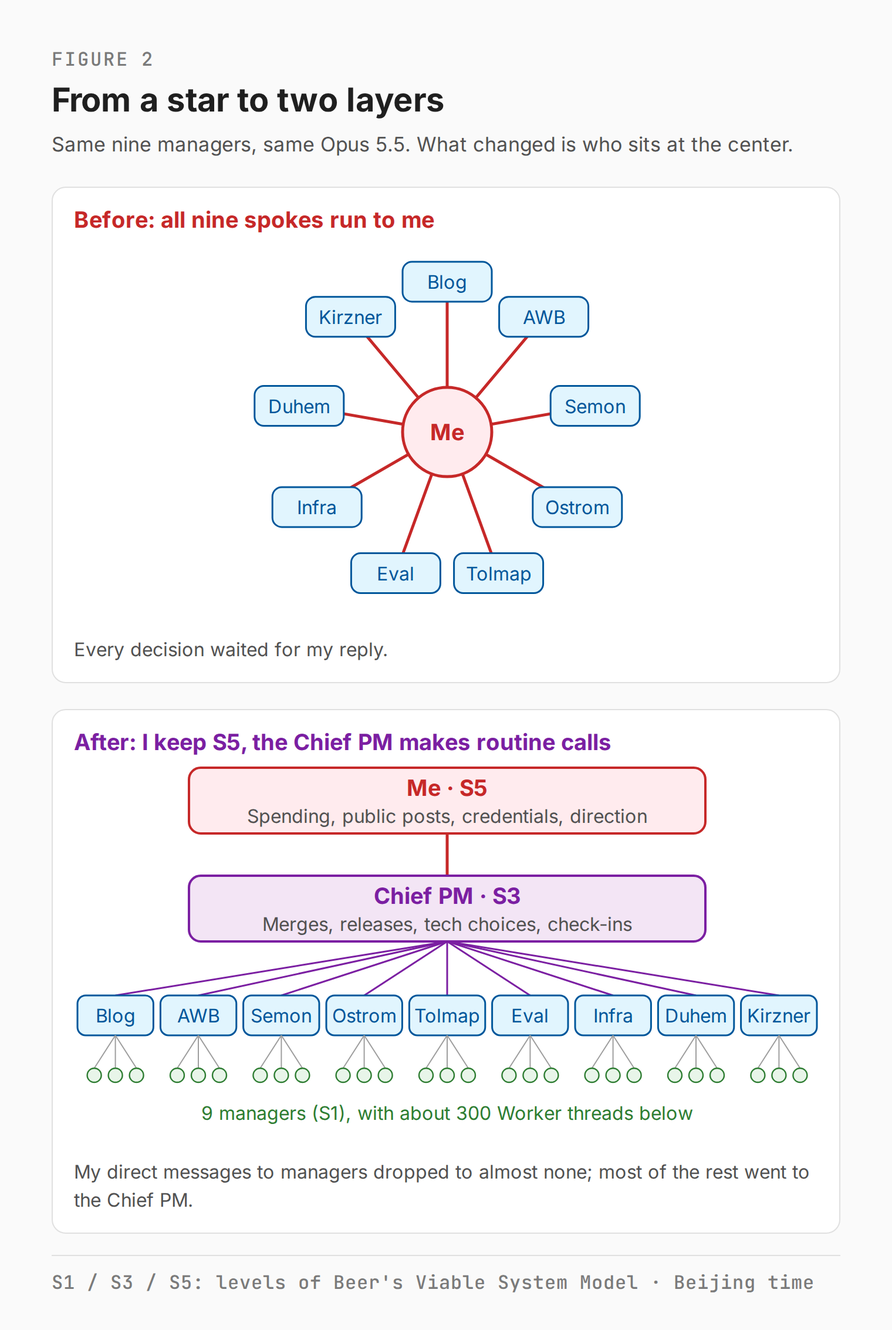
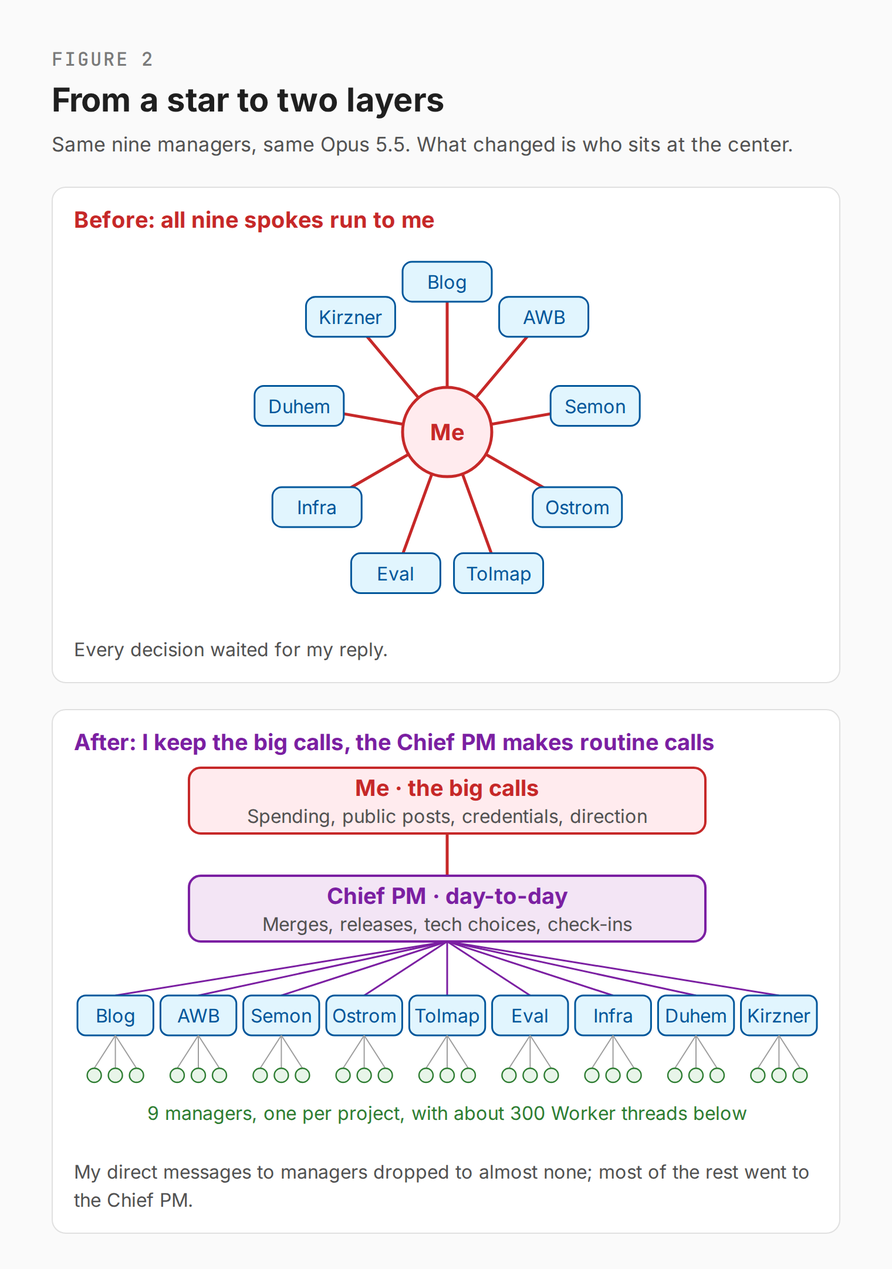
Chief PM post: explain the Viable System Model without S1–S5 (#79)
* Chief PM post: explain the Viable System Model in plain words

* Chief PM post: drop VSM labels from figure 2

---------

diff --git a/drafts/2026-11-24-managing-managers-a-chief-pm-agent-and-the-coordination-tax/figures/figure-2-topology.en.html b/drafts/2026-11-24-managing-managers-a-chief-pm-agent-and-the-coordination-tax/figures/figure-2-topology.en.html
@@ -22,6 +22,5 @@ svg{display:block}
 <div class="sub">Same nine managers, same Opus 5.5. What changed is who sits at the center.</div>
 <div class="panel"><h2 style="color:var(--red)">Before: all nine spokes run to me</h2><svg width="636" height="330" viewBox="0 0 636 330"><line x1="318.0" y1="165.0" x2="318.0" y2="37.0" stroke="#c62828" stroke-width="2.5"/><line x1="318.0" y1="165.0" x2="400.3" y2="66.9" stroke="#c62828" stroke-width="2.5"/><line x1="318.0" y1="165.0" x2="444.1" y2="142.8" stroke="#c62828" stroke-width="2.5"/><line x1="318.0" y1="165.0" x2="428.9" y2="229.0" stroke="#c62828" stroke-width="2.5"/><line x1="318.0" y1="165.0" x2="361.8" y2="285.3" stroke="#c62828" stroke-width="2.5"/><line x1="318.0" y1="165.0" x2="274.2" y2="285.3" stroke="#c62828" stroke-width="2.5"/><line x1="318.0" y1="165.0" x2="207.1" y2="229.0" stroke="#c62828" stroke-width="2.5"/><line x1="318.0" y1="165.0" x2="191.9" y2="142.8" stroke="#c62828" stroke-width="2.5"/><line x1="318.0" y1="165.0" x2="235.7" y2="66.9" stroke="#c62828" stroke-width="2.5"/><rect x="280.0" y="20.0" width="76" height="34" rx="8" fill="#e1f5fe" stroke="#01579b" stroke-width="1.5"/><text x="318.0" y="43.0" text-anchor="middle" font-size="16" fill="#01579b">Blog</text><rect x="362.3" y="49.9" width="76" height="34" rx="8" fill="#e1f5fe" stroke="#01579b" stroke-width="1.5"/><text x="400.3" y="72.9" text-anchor="middle" font-size="16" fill="#01579b">AWB</text><rect x="406.1" y="125.8" width="76" height="34" rx="8" fill="#e1f5fe" stroke="#01579b" stroke-width="1.5"/><text x="444.1" y="148.8" text-anchor="middle" font-size="16" fill="#01579b">Semon</text><rect x="390.9" y="212.0" width="76" height="34" rx="8" fill="#e1f5fe" stroke="#01579b" stroke-width="1.5"/><text x="428.9" y="235.0" text-anchor="middle" font-size="16" fill="#01579b">Ostrom</text><rect x="323.8" y="268.3" width="76" height="34" rx="8" fill="#e1f5fe" stroke="#01579b" stroke-width="1.5"/><text x="361.8" y="291.3" text-anchor="middle" font-size="16" fill="#01579b">Tolmap</text><rect x="236.2" y="268.3" width="76" height="34" rx="8" fill="#e1f5fe" stroke="#01579b" stroke-width="1.5"/><text x="274.2" y="291.3" text-anchor="middle" font-size="16" fill="#01579b">Eval</text><rect x="169.1" y="212.0" width="76" height="34" rx="8" fill="#e1f5fe" stroke="#01579b" stroke-width="1.5"/><text x="207.1" y="235.0" text-anchor="middle" font-size="16" fill="#01579b">Infra</text><rect x="153.9" y="125.8" width="76" height="34" rx="8" fill="#e1f5fe" stroke="#01579b" stroke-width="1.5"/><text x="191.9" y="148.8" text-anchor="middle" font-size="16" fill="#01579b">Duhem</text><rect x="197.7" y="49.9" width="76" height="34" rx="8" fill="#e1f5fe" stroke="#01579b" stroke-width="1.5"/><text x="235.7" y="72.9" text-anchor="middle" font-size="16" fill="#01579b">Kirzner</text><circle cx="318.0" cy="165.0" r="38" fill="#ffebee" stroke="#c62828" stroke-width="2.5"/><text x="318.0" y="172.0" text-anchor="middle" font-size="19" font-weight="700" fill="#c62828">Me</text></svg>
 <div class="note">Every decision waited for my reply.</div></div>
-<div class="panel"><h2 style="color:var(--purple)">After: I keep S5, the Chief PM makes routine calls</h2><svg width="636" height="330" viewBox="0 0 636 330"><rect x="98.0" y="6" width="440" height="56" rx="10" fill="#ffebee" stroke="#c62828" stroke-width="2"/><text x="318.0" y="30" text-anchor="middle" font-size="19" font-weight="700" fill="#c62828">Me · S5</text><text x="318.0" y="53" text-anchor="middle" font-size="16" fill="#525252">Spending, public posts, credentials, direction</text><line x1="318.0" y1="62" x2="318.0" y2="98" stroke="#c62828" stroke-width="2.5"/><rect x="98.0" y="98" width="440" height="56" rx="10" fill="#f3e5f5" stroke="#7b1fa2" stroke-width="2"/><text x="318.0" y="122" text-anchor="middle" font-size="19" font-weight="700" fill="#7b1fa2">Chief PM · S3</text><text x="318.0" y="145" text-anchor="middle" font-size="16" fill="#525252">Merges, releases, tech choices, check-ins</text><line x1="318.0" y1="154" x2="35.3" y2="200" stroke="#7b1fa2" stroke-width="1.5"/><rect x="3.0" y="200" width="64.7" height="34" rx="7" fill="#e1f5fe" stroke="#01579b" stroke-width="1.5"/><text x="35.3" y="223" text-anchor="middle" font-size="16" fill="#01579b">Blog</text><line x1="35.3" y1="234" x2="17.3" y2="262" stroke="#9e9e9e" stroke-width="1"/><circle cx="17.3" cy="268" r="6" fill="#e8f5e9" stroke="#2e7d32" stroke-width="1.2"/><line x1="35.3" y1="234" x2="35.3" y2="262" stroke="#9e9e9e" stroke-width="1"/><circle cx="35.3" cy="268" r="6" fill="#e8f5e9" stroke="#2e7d32" stroke-width="1.2"/><line x1="35.3" y1="234" x2="53.3" y2="262" stroke="#9e9e9e" stroke-width="1"/><circle cx="53.3" cy="268" r="6" fill="#e8f5e9" stroke="#2e7d32" stroke-width="1.2"/><line x1="318.0" y1="154" x2="106.0" y2="200" stroke="#7b1fa2" stroke-width="1.5"/><rect x="73.7" y="200" width="64.7" height="34" rx="7" fill="#e1f5fe" stroke="#01579b" stroke-width="1.5"/><text x="106.0" y="223" text-anchor="middle" font-size="16" fill="#01579b">AWB</text><line x1="106.0" y1="234" x2="88.0" y2="262" stroke="#9e9e9e" stroke-width="1"/><circle cx="88.0" cy="268" r="6" fill="#e8f5e9" stroke="#2e7d32" stroke-width="1.2"/><line x1="106.0" y1="234" x2="106.0" y2="262" stroke="#9e9e9e" stroke-width="1"/><circle cx="106.0" cy="268" r="6" fill="#e8f5e9" stroke="#2e7d32" stroke-width="1.2"/><line x1="106.0" y1="234" x2="124.0" y2="262" stroke="#9e9e9e" stroke-width="1"/><circle cx="124.0" cy="268" r="6" fill="#e8f5e9" stroke="#2e7d32" stroke-width="1.2"/><line x1="318.0" y1="154" x2="176.7" y2="200" stroke="#7b1fa2" stroke-width="1.5"/><rect x="144.3" y="200" width="64.7" height="34" rx="7" fill="#e1f5fe" stroke="#01579b" stroke-width="1.5"/><text x="176.7" y="223" text-anchor="middle" font-size="16" fill="#01579b">Semon</text><line x1="176.7" y1="234" x2="158.7" y2="262" stroke="#9e9e9e" stroke-width="1"/><circle cx="158.7" cy="268" r="6" fill="#e8f5e9" stroke="#2e7d32" stroke-width="1.2"/><line x1="176.7" y1="234" x2="176.7" y2="262" stroke="#9e9e9e" stroke-width="1"/><circle cx="176.7" cy="268" r="6" fill="#e8f5e9" stroke="#2e7d32" stroke-width="1.2"/><line x1="176.7" y1="234" x2="194.7" y2="262" stroke="#9e9e9e" stroke-width="1"/><circle cx="194.7" cy="268" r="6" fill="#e8f5e9" stroke="#2e7d32" stroke-width="1.2"/><line x1="318.0" y1="154" x2="247.3" y2="200" stroke="#7b1fa2" stroke-width="1.5"/><rect x="215.0" y="200" width="64.7" height="34" rx="7" fill="#e1f5fe" stroke="#01579b" stroke-width="1.5"/><text x="247.3" y="223" text-anchor="middle" font-size="16" fill="#01579b">Ostrom</text><line x1="247.3" y1="234" x2="229.3" y2="262" stroke="#9e9e9e" stroke-width="1"/><circle cx="229.3" cy="268" r="6" fill="#e8f5e9" stroke="#2e7d32" stroke-width="1.2"/><line x1="247.3" y1="234" x2="247.3" y2="262" stroke="#9e9e9e" stroke-width="1"/><circle cx="247.3" cy="268" r="6" fill="#e8f5e9" stroke="#2e7d32" stroke-width="1.2"/><line x1="247.3" y1="234" x2="265.3" y2="262" stroke="#9e9e9e" stroke-width="1"/><circle cx="265.3" cy="268" r="6" fill="#e8f5e9" stroke="#2e7d32" stroke-width="1.2"/><line x1="318.0" y1="154" x2="318.0" y2="200" stroke="#7b1fa2" stroke-width="1.5"/><rect x="285.7" y="200" width="64.7" height="34" rx="7" fill="#e1f5fe" stroke="#01579b" stroke-width="1.5"/><text x="318.0" y="223" text-anchor="middle" font-size="16" fill="#01579b">Tolmap</text><line x1="318.0" y1="234" x2="300.0" y2="262" stroke="#9e9e9e" stroke-width="1"/><circle cx="300.0" cy="268" r="6" fill="#e8f5e9" stroke="#2e7d32" stroke-width="1.2"/><line x1="318.0" y1="234" x2="318.0" y2="262" stroke="#9e9e9e" stroke-width="1"/><circle cx="318.0" cy="268" r="6" fill="#e8f5e9" stroke="#2e7d32" stroke-width="1.2"/><line x1="318.0" y1="234" x2="336.0" y2="262" stroke="#9e9e9e" stroke-width="1"/><circle cx="336.0" cy="268" r="6" fill="#e8f5e9" stroke="#2e7d32" stroke-width="1.2"/><line x1="318.0" y1="154" x2="388.7" y2="200" stroke="#7b1fa2" stroke-width="1.5"/><rect x="356.3" y="200" width="64.7" height="34" rx="7" fill="#e1f5fe" stroke="#01579b" stroke-width="1.5"/><text x="388.7" y="223" text-anchor="middle" font-size="16" fill="#01579b">Eval</text><line x1="388.7" y1="234" x2="370.7" y2="262" stroke="#9e9e9e" stroke-width="1"/><circle cx="370.7" cy="268" r="6" fill="#e8f5e9" stroke="#2e7d32" stroke-width="1.2"/><line x1="388.7" y1="234" x2="388.7" y2="262" stroke="#9e9e9e" stroke-width="1"/><circle cx="388.7" cy="268" r="6" fill="#e8f5e9" stroke="#2e7d32" stroke-width="1.2"/><line x1="388.7" y1="234" x2="406.7" y2="262" stroke="#9e9e9e" stroke-width="1"/><circle cx="406.7" cy="268" r="6" fill="#e8f5e9" stroke="#2e7d32" stroke-width="1.2"/><line x1="318.0" y1="154" x2="459.3" y2="200" stroke="#7b1fa2" stroke-width="1.5"/><rect x="427.0" y="200" width="64.7" height="34" rx="7" fill="#e1f5fe" stroke="#01579b" stroke-width="1.5"/><text x="459.3" y="223" text-anchor="middle" font-size="16" fill="#01579b">Infra</text><line x1="459.3" y1="234" x2="441.3" y2="262" stroke="#9e9e9e" stroke-width="1"/><circle cx="441.3" cy="268" r="6" fill="#e8f5e9" stroke="#2e7d32" stroke-width="1.2"/><line x1="459.3" y1="234" x2="459.3" y2="262" stroke="#9e9e9e" stroke-width="1"/><circle cx="459.3" cy="268" r="6" fill="#e8f5e9" stroke="#2e7d32" stroke-width="1.2"/><line x1="459.3" y1="234" x2="477.3" y2="262" stroke="#9e9e9e" stroke-width="1"/><circle cx="477.3" cy="268" r="6" fill="#e8f5e9" stroke="#2e7d32" stroke-width="1.2"/><line x1="318.0" y1="154" x2="530.0" y2="200" stroke="#7b1fa2" stroke-width="1.5"/><rect x="497.7" y="200" width="64.7" height="34" rx="7" fill="#e1f5fe" stroke="#01579b" stroke-width="1.5"/><text x="530.0" y="223" text-anchor="middle" font-size="16" fill="#01579b">Duhem</text><line x1="530.0" y1="234" x2="512.0" y2="262" stroke="#9e9e9e" stroke-width="1"/><circle cx="512.0" cy="268" r="6" fill="#e8f5e9" stroke="#2e7d32" stroke-width="1.2"/><line x1="530.0" y1="234" x2="530.0" y2="262" stroke="#9e9e9e" stroke-width="1"/><circle cx="530.0" cy="268" r="6" fill="#e8f5e9" stroke="#2e7d32" stroke-width="1.2"/><line x1="530.0" y1="234" x2="548.0" y2="262" stroke="#9e9e9e" stroke-width="1"/><circle cx="548.0" cy="268" r="6" fill="#e8f5e9" stroke="#2e7d32" stroke-width="1.2"/><line x1="318.0" y1="154" x2="600.7" y2="200" stroke="#7b1fa2" stroke-width="1.5"/><rect x="568.3" y="200" width="64.7" height="34" rx="7" fill="#e1f5fe" stroke="#01579b" stroke-width="1.5"/><text x="600.7" y="223" text-anchor="middle" font-size="16" fill="#01579b">Kirzner</text><line x1="600.7" y1="234" x2="582.7" y2="262" stroke="#9e9e9e" stroke-width="1"/><circle cx="582.7" cy="268" r="6" fill="#e8f5e9" stroke="#2e7d32" stroke-width="1.2"/><line x1="600.7" y1="234" x2="600.7" y2="262" stroke="#9e9e9e" stroke-width="1"/><circle cx="600.7" cy="268" r="6" fill="#e8f5e9" stroke="#2e7d32" stroke-width="1.2"/><line x1="600.7" y1="234" x2="618.7" y2="262" stroke="#9e9e9e" stroke-width="1"/><circle cx="618.7" cy="268" r="6" fill="#e8f5e9" stroke="#2e7d32" stroke-width="1.2"/><text x="318.0" y="306" text-anchor="middle" font-size="16" fill="#2e7d32">9 managers (S1), with about 300 Worker threads below</text></svg>
-<div class="note">My direct messages to managers dropped to almost none; most of the rest went to the Chief PM.</div></div>
-<div class="foot">S1 / S3 / S5: levels of Beer's Viable System Model · Beijing time</div></div></body></html>
+<div class="panel"><h2 style="color:var(--purple)">After: I keep the big calls, the Chief PM makes routine calls</h2><svg width="636" height="330" viewBox="0 0 636 330"><rect x="98.0" y="6" width="440" height="56" rx="10" fill="#ffebee" stroke="#c62828" stroke-width="2"/><text x="318.0" y="30" text-anchor="middle" font-size="19" font-weight="700" fill="#c62828">Me · the big calls</text><text x="318.0" y="53" text-anchor="middle" font-size="16" fill="#525252">Spending, public posts, credentials, direction</text><line x1="318.0" y1="62" x2="318.0" y2="98" stroke="#c62828" stroke-width="2.5"/><rect x="98.0" y="98" width="440" height="56" rx="10" fill="#f3e5f5" stroke="#7b1fa2" stroke-width="2"/><text x="318.0" y="122" text-anchor="middle" font-size="19" font-weight="700" fill="#7b1fa2">Chief PM · day-to-day</text><text x="318.0" y="145" text-anchor="middle" font-size="16" fill="#525252">Merges, releases, tech choices, check-ins</text><line x1="318.0" y1="154" x2="35.3" y2="200" stroke="#7b1fa2" stroke-width="1.5"/><rect x="3.0" y="200" width="64.7" height="34" rx="7" fill="#e1f5fe" stroke="#01579b" stroke-width="1.5"/><text x="35.3" y="223" text-anchor="middle" font-size="16" fill="#01579b">Blog</text><line x1="35.3" y1="234" x2="17.3" y2="262" stroke="#9e9e9e" stroke-width="1"/><circle cx="17.3" cy="268" r="6" fill="#e8f5e9" stroke="#2e7d32" stroke-width="1.2"/><line x1="35.3" y1="234" x2="35.3" y2="262" stroke="#9e9e9e" stroke-width="1"/><circle cx="35.3" cy="268" r="6" fill="#e8f5e9" stroke="#2e7d32" stroke-width="1.2"/><line x1="35.3" y1="234" x2="53.3" y2="262" stroke="#9e9e9e" stroke-width="1"/><circle cx="53.3" cy="268" r="6" fill="#e8f5e9" stroke="#2e7d32" stroke-width="1.2"/><line x1="318.0" y1="154" x2="106.0" y2="200" stroke="#7b1fa2" stroke-width="1.5"/><rect x="73.7" y="200" width="64.7" height="34" rx="7" fill="#e1f5fe" stroke="#01579b" stroke-width="1.5"/><text x="106.0" y="223" text-anchor="middle" font-size="16" fill="#01579b">AWB</text><line x1="106.0" y1="234" x2="88.0" y2="262" stroke="#9e9e9e" stroke-width="1"/><circle cx="88.0" cy="268" r="6" fill="#e8f5e9" stroke="#2e7d32" stroke-width="1.2"/><line x1="106.0" y1="234" x2="106.0" y2="262" stroke="#9e9e9e" stroke-width="1"/><circle cx="106.0" cy="268" r="6" fill="#e8f5e9" stroke="#2e7d32" stroke-width="1.2"/><line x1="106.0" y1="234" x2="124.0" y2="262" stroke="#9e9e9e" stroke-width="1"/><circle cx="124.0" cy="268" r="6" fill="#e8f5e9" stroke="#2e7d32" stroke-width="1.2"/><line x1="318.0" y1="154" x2="176.7" y2="200" stroke="#7b1fa2" stroke-width="1.5"/><rect x="144.3" y="200" width="64.7" height="34" rx="7" fill="#e1f5fe" stroke="#01579b" stroke-width="1.5"/><text x="176.7" y="223" text-anchor="middle" font-size="16" fill="#01579b">Semon</text><line x1="176.7" y1="234" x2="158.7" y2="262" stroke="#9e9e9e" stroke-width="1"/><circle cx="158.7" cy="268" r="6" fill="#e8f5e9" stroke="#2e7d32" stroke-width="1.2"/><line x1="176.7" y1="234" x2="176.7" y2="262" stroke="#9e9e9e" stroke-width="1"/><circle cx="176.7" cy="268" r="6" fill="#e8f5e9" stroke="#2e7d32" stroke-width="1.2"/><line x1="176.7" y1="234" x2="194.7" y2="262" stroke="#9e9e9e" stroke-width="1"/><circle cx="194.7" cy="268" r="6" fill="#e8f5e9" stroke="#2e7d32" stroke-width="1.2"/><line x1="318.0" y1="154" x2="247.3" y2="200" stroke="#7b1fa2" stroke-width="1.5"/><rect x="215.0" y="200" width="64.7" height="34" rx="7" fill="#e1f5fe" stroke="#01579b" stroke-width="1.5"/><text x="247.3" y="223" text-anchor="middle" font-size="16" fill="#01579b">Ostrom</text><line x1="247.3" y1="234" x2="229.3" y2="262" stroke="#9e9e9e" stroke-width="1"/><circle cx="229.3" cy="268" r="6" fill="#e8f5e9" stroke="#2e7d32" stroke-width="1.2"/><line x1="247.3" y1="234" x2="247.3" y2="262" stroke="#9e9e9e" stroke-width="1"/><circle cx="247.3" cy="268" r="6" fill="#e8f5e9" stroke="#2e7d32" stroke-width="1.2"/><line x1="247.3" y1="234" x2="265.3" y2="262" stroke="#9e9e9e" stroke-width="1"/><circle cx="265.3" cy="268" r="6" fill="#e8f5e9" stroke="#2e7d32" stroke-width="1.2"/><line x1="318.0" y1="154" x2="318.0" y2="200" stroke="#7b1fa2" stroke-width="1.5"/><rect x="285.7" y="200" width="64.7" height="34" rx="7" fill="#e1f5fe" stroke="#01579b" stroke-width="1.5"/><text x="318.0" y="223" text-anchor="middle" font-size="16" fill="#01579b">Tolmap</text><line x1="318.0" y1="234" x2="300.0" y2="262" stroke="#9e9e9e" stroke-width="1"/><circle cx="300.0" cy="268" r="6" fill="#e8f5e9" stroke="#2e7d32" stroke-width="1.2"/><line x1="318.0" y1="234" x2="318.0" y2="262" stroke="#9e9e9e" stroke-width="1"/><circle cx="318.0" cy="268" r="6" fill="#e8f5e9" stroke="#2e7d32" stroke-width="1.2"/><line x1="318.0" y1="234" x2="336.0" y2="262" stroke="#9e9e9e" stroke-width="1"/><circle cx="336.0" cy="268" r="6" fill="#e8f5e9" stroke="#2e7d32" stroke-width="1.2"/><line x1="318.0" y1="154" x2="388.7" y2="200" stroke="#7b1fa2" stroke-width="1.5"/><rect x="356.3" y="200" width="64.7" height="34" rx="7" fill="#e1f5fe" stroke="#01579b" stroke-width="1.5"/><text x="388.7" y="223" text-anchor="middle" font-size="16" fill="#01579b">Eval</text><line x1="388.7" y1="234" x2="370.7" y2="262" stroke="#9e9e9e" stroke-width="1"/><circle cx="370.7" cy="268" r="6" fill="#e8f5e9" stroke="#2e7d32" stroke-width="1.2"/><line x1="388.7" y1="234" x2="388.7" y2="262" stroke="#9e9e9e" stroke-width="1"/><circle cx="388.7" cy="268" r="6" fill="#e8f5e9" stroke="#2e7d32" stroke-width="1.2"/><line x1="388.7" y1="234" x2="406.7" y2="262" stroke="#9e9e9e" stroke-width="1"/><circle cx="406.7" cy="268" r="6" fill="#e8f5e9" stroke="#2e7d32" stroke-width="1.2"/><line x1="318.0" y1="154" x2="459.3" y2="200" stroke="#7b1fa2" stroke-width="1.5"/><rect x="427.0" y="200" width="64.7" height="34" rx="7" fill="#e1f5fe" stroke="#01579b" stroke-width="1.5"/><text x="459.3" y="223" text-anchor="middle" font-size="16" fill="#01579b">Infra</text><line x1="459.3" y1="234" x2="441.3" y2="262" stroke="#9e9e9e" stroke-width="1"/><circle cx="441.3" cy="268" r="6" fill="#e8f5e9" stroke="#2e7d32" stroke-width="1.2"/><line x1="459.3" y1="234" x2="459.3" y2="262" stroke="#9e9e9e" stroke-width="1"/><circle cx="459.3" cy="268" r="6" fill="#e8f5e9" stroke="#2e7d32" stroke-width="1.2"/><line x1="459.3" y1="234" x2="477.3" y2="262" stroke="#9e9e9e" stroke-width="1"/><circle cx="477.3" cy="268" r="6" fill="#e8f5e9" stroke="#2e7d32" stroke-width="1.2"/><line x1="318.0" y1="154" x2="530.0" y2="200" stroke="#7b1fa2" stroke-width="1.5"/><rect x="497.7" y="200" width="64.7" height="34" rx="7" fill="#e1f5fe" stroke="#01579b" stroke-width="1.5"/><text x="530.0" y="223" text-anchor="middle" font-size="16" fill="#01579b">Duhem</text><line x1="530.0" y1="234" x2="512.0" y2="262" stroke="#9e9e9e" stroke-width="1"/><circle cx="512.0" cy="268" r="6" fill="#e8f5e9" stroke="#2e7d32" stroke-width="1.2"/><line x1="530.0" y1="234" x2="530.0" y2="262" stroke="#9e9e9e" stroke-width="1"/><circle cx="530.0" cy="268" r="6" fill="#e8f5e9" stroke="#2e7d32" stroke-width="1.2"/><line x1="530.0" y1="234" x2="548.0" y2="262" stroke="#9e9e9e" stroke-width="1"/><circle cx="548.0" cy="268" r="6" fill="#e8f5e9" stroke="#2e7d32" stroke-width="1.2"/><line x1="318.0" y1="154" x2="600.7" y2="200" stroke="#7b1fa2" stroke-width="1.5"/><rect x="568.3" y="200" width="64.7" height="34" rx="7" fill="#e1f5fe" stroke="#01579b" stroke-width="1.5"/><text x="600.7" y="223" text-anchor="middle" font-size="16" fill="#01579b">Kirzner</text><line x1="600.7" y1="234" x2="582.7" y2="262" stroke="#9e9e9e" stroke-width="1"/><circle cx="582.7" cy="268" r="6" fill="#e8f5e9" stroke="#2e7d32" stroke-width="1.2"/><line x1="600.7" y1="234" x2="600.7" y2="262" stroke="#9e9e9e" stroke-width="1"/><circle cx="600.7" cy="268" r="6" fill="#e8f5e9" stroke="#2e7d32" stroke-width="1.2"/><line x1="600.7" y1="234" x2="618.7" y2="262" stroke="#9e9e9e" stroke-width="1"/><circle cx="618.7" cy="268" r="6" fill="#e8f5e9" stroke="#2e7d32" stroke-width="1.2"/><text x="318.0" y="306" text-anchor="middle" font-size="16" fill="#2e7d32">9 managers, one per project, with about 300 Worker threads below</text></svg>
+<div class="note">My direct messages to managers dropped to almost none; most of the rest went to the Chief PM.</div></div></div></body></html>

diff --git a/drafts/2026-11-24-managing-managers-a-chief-pm-agent-and-the-coordination-tax/figures/figure-2-topology.zh.html b/drafts/2026-11-24-managing-managers-a-chief-pm-agent-and-the-coordination-tax/figures/figure-2-topology.zh.html
@@ -22,6 +22,5 @@ svg{display:block}
 <div class="sub">同样 9 个经理，同样是 Opus 5.5。变的是谁站在中心。</div>
 <div class="panel"><h2 style="color:var(--red)">之前：9 条辐条都通向我</h2><svg width="636" height="330" viewBox="0 0 636 330"><line x1="318.0" y1="165.0" x2="318.0" y2="37.0" stroke="#c62828" stroke-width="2.5"/><line x1="318.0" y1="165.0" x2="400.3" y2="66.9" stroke="#c62828" stroke-width="2.5"/><line x1="318.0" y1="165.0" x2="444.1" y2="142.8" stroke="#c62828" stroke-width="2.5"/><line x1="318.0" y1="165.0" x2="428.9" y2="229.0" stroke="#c62828" stroke-width="2.5"/><line x1="318.0" y1="165.0" x2="361.8" y2="285.3" stroke="#c62828" stroke-width="2.5"/><line x1="318.0" y1="165.0" x2="274.2" y2="285.3" stroke="#c62828" stroke-width="2.5"/><line x1="318.0" y1="165.0" x2="207.1" y2="229.0" stroke="#c62828" stroke-width="2.5"/><line x1="318.0" y1="165.0" x2="191.9" y2="142.8" stroke="#c62828" stroke-width="2.5"/><line x1="318.0" y1="165.0" x2="235.7" y2="66.9" stroke="#c62828" stroke-width="2.5"/><rect x="280.0" y="20.0" width="76" height="34" rx="8" fill="#e1f5fe" stroke="#01579b" stroke-width="1.5"/><text x="318.0" y="43.0" text-anchor="middle" font-size="16" fill="#01579b">博客</text><rect x="362.3" y="49.9" width="76" height="34" rx="8" fill="#e1f5fe" stroke="#01579b" stroke-width="1.5"/><text x="400.3" y="72.9" text-anchor="middle" font-size="16" fill="#01579b">AWB</text><rect x="406.1" y="125.8" width="76" height="34" rx="8" fill="#e1f5fe" stroke="#01579b" stroke-width="1.5"/><text x="444.1" y="148.8" text-anchor="middle" font-size="16" fill="#01579b">Semon</text><rect x="390.9" y="212.0" width="76" height="34" rx="8" fill="#e1f5fe" stroke="#01579b" stroke-width="1.5"/><text x="428.9" y="235.0" text-anchor="middle" font-size="16" fill="#01579b">Ostrom</text><rect x="323.8" y="268.3" width="76" height="34" rx="8" fill="#e1f5fe" stroke="#01579b" stroke-width="1.5"/><text x="361.8" y="291.3" text-anchor="middle" font-size="16" fill="#01579b">Tolmap</text><rect x="236.2" y="268.3" width="76" height="34" rx="8" fill="#e1f5fe" stroke="#01579b" stroke-width="1.5"/><text x="274.2" y="291.3" text-anchor="middle" font-size="16" fill="#01579b">Eval</text><rect x="169.1" y="212.0" width="76" height="34" rx="8" fill="#e1f5fe" stroke="#01579b" stroke-width="1.5"/><text x="207.1" y="235.0" text-anchor="middle" font-size="16" fill="#01579b">Infra</text><rect x="153.9" y="125.8" width="76" height="34" rx="8" fill="#e1f5fe" stroke="#01579b" stroke-width="1.5"/><text x="191.9" y="148.8" text-anchor="middle" font-size="16" fill="#01579b">Duhem</text><rect x="197.7" y="49.9" width="76" height="34" rx="8" fill="#e1f5fe" stroke="#01579b" stroke-width="1.5"/><text x="235.7" y="72.9" text-anchor="middle" font-size="16" fill="#01579b">Kirzner</text><circle cx="318.0" cy="165.0" r="38" fill="#ffebee" stroke="#c62828" stroke-width="2.5"/><text x="318.0" y="172.0" text-anchor="middle" font-size="19" font-weight="700" fill="#c62828">我</text></svg>
 <div class="note">每一个要拍板的事，都等我回消息。</div></div>
-<div class="panel"><h2 style="color:var(--purple)">之后：我只管 S5，日常由 Chief PM 拍板</h2><svg width="636" height="330" viewBox="0 0 636 330"><rect x="98.0" y="6" width="440" height="56" rx="10" fill="#ffebee" stroke="#c62828" stroke-width="2"/><text x="318.0" y="30" text-anchor="middle" font-size="19" font-weight="700" fill="#c62828">我 · S5</text><text x="318.0" y="53" text-anchor="middle" font-size="16" fill="#525252">花钱、对外发声、凭据、产品方向</text><line x1="318.0" y1="62" x2="318.0" y2="98" stroke="#c62828" stroke-width="2.5"/><rect x="98.0" y="98" width="440" height="56" rx="10" fill="#f3e5f5" stroke="#7b1fa2" stroke-width="2"/><text x="318.0" y="122" text-anchor="middle" font-size="19" font-weight="700" fill="#7b1fa2">Chief PM · S3</text><text x="318.0" y="145" text-anchor="middle" font-size="16" fill="#525252">合并、发版、技术选型、巡检</text><line x1="318.0" y1="154" x2="35.3" y2="200" stroke="#7b1fa2" stroke-width="1.5"/><rect x="3.0" y="200" width="64.7" height="34" rx="7" fill="#e1f5fe" stroke="#01579b" stroke-width="1.5"/><text x="35.3" y="223" text-anchor="middle" font-size="16" fill="#01579b">博客</text><line x1="35.3" y1="234" x2="17.3" y2="262" stroke="#9e9e9e" stroke-width="1"/><circle cx="17.3" cy="268" r="6" fill="#e8f5e9" stroke="#2e7d32" stroke-width="1.2"/><line x1="35.3" y1="234" x2="35.3" y2="262" stroke="#9e9e9e" stroke-width="1"/><circle cx="35.3" cy="268" r="6" fill="#e8f5e9" stroke="#2e7d32" stroke-width="1.2"/><line x1="35.3" y1="234" x2="53.3" y2="262" stroke="#9e9e9e" stroke-width="1"/><circle cx="53.3" cy="268" r="6" fill="#e8f5e9" stroke="#2e7d32" stroke-width="1.2"/><line x1="318.0" y1="154" x2="106.0" y2="200" stroke="#7b1fa2" stroke-width="1.5"/><rect x="73.7" y="200" width="64.7" height="34" rx="7" fill="#e1f5fe" stroke="#01579b" stroke-width="1.5"/><text x="106.0" y="223" text-anchor="middle" font-size="16" fill="#01579b">AWB</text><line x1="106.0" y1="234" x2="88.0" y2="262" stroke="#9e9e9e" stroke-width="1"/><circle cx="88.0" cy="268" r="6" fill="#e8f5e9" stroke="#2e7d32" stroke-width="1.2"/><line x1="106.0" y1="234" x2="106.0" y2="262" stroke="#9e9e9e" stroke-width="1"/><circle cx="106.0" cy="268" r="6" fill="#e8f5e9" stroke="#2e7d32" stroke-width="1.2"/><line x1="106.0" y1="234" x2="124.0" y2="262" stroke="#9e9e9e" stroke-width="1"/><circle cx="124.0" cy="268" r="6" fill="#e8f5e9" stroke="#2e7d32" stroke-width="1.2"/><line x1="318.0" y1="154" x2="176.7" y2="200" stroke="#7b1fa2" stroke-width="1.5"/><rect x="144.3" y="200" width="64.7" height="34" rx="7" fill="#e1f5fe" stroke="#01579b" stroke-width="1.5"/><text x="176.7" y="223" text-anchor="middle" font-size="16" fill="#01579b">Semon</text><line x1="176.7" y1="234" x2="158.7" y2="262" stroke="#9e9e9e" stroke-width="1"/><circle cx="158.7" cy="268" r="6" fill="#e8f5e9" stroke="#2e7d32" stroke-width="1.2"/><line x1="176.7" y1="234" x2="176.7" y2="262" stroke="#9e9e9e" stroke-width="1"/><circle cx="176.7" cy="268" r="6" fill="#e8f5e9" stroke="#2e7d32" stroke-width="1.2"/><line x1="176.7" y1="234" x2="194.7" y2="262" stroke="#9e9e9e" stroke-width="1"/><circle cx="194.7" cy="268" r="6" fill="#e8f5e9" stroke="#2e7d32" stroke-width="1.2"/><line x1="318.0" y1="154" x2="247.3" y2="200" stroke="#7b1fa2" stroke-width="1.5"/><rect x="215.0" y="200" width="64.7" height="34" rx="7" fill="#e1f5fe" stroke="#01579b" stroke-width="1.5"/><text x="247.3" y="223" text-anchor="middle" font-size="16" fill="#01579b">Ostrom</text><line x1="247.3" y1="234" x2="229.3" y2="262" stroke="#9e9e9e" stroke-width="1"/><circle cx="229.3" cy="268" r="6" fill="#e8f5e9" stroke="#2e7d32" stroke-width="1.2"/><line x1="247.3" y1="234" x2="247.3" y2="262" stroke="#9e9e9e" stroke-width="1"/><circle cx="247.3" cy="268" r="6" fill="#e8f5e9" stroke="#2e7d32" stroke-width="1.2"/><line x1="247.3" y1="234" x2="265.3" y2="262" stroke="#9e9e9e" stroke-width="1"/><circle cx="265.3" cy="268" r="6" fill="#e8f5e9" stroke="#2e7d32" stroke-width="1.2"/><line x1="318.0" y1="154" x2="318.0" y2="200" stroke="#7b1fa2" stroke-width="1.5"/><rect x="285.7" y="200" width="64.7" height="34" rx="7" fill="#e1f5fe" stroke="#01579b" stroke-width="1.5"/><text x="318.0" y="223" text-anchor="middle" font-size="16" fill="#01579b">Tolmap</text><line x1="318.0" y1="234" x2="300.0" y2="262" stroke="#9e9e9e" stroke-width="1"/><circle cx="300.0" cy="268" r="6" fill="#e8f5e9" stroke="#2e7d32" stroke-width="1.2"/><line x1="318.0" y1="234" x2="318.0" y2="262" stroke="#9e9e9e" stroke-width="1"/><circle cx="318.0" cy="268" r="6" fill="#e8f5e9" stroke="#2e7d32" stroke-width="1.2"/><line x1="318.0" y1="234" x2="336.0" y2="262" stroke="#9e9e9e" stroke-width="1"/><circle cx="336.0" cy="268" r="6" fill="#e8f5e9" stroke="#2e7d32" stroke-width="1.2"/><line x1="318.0" y1="154" x2="388.7" y2="200" stroke="#7b1fa2" stroke-width="1.5"/><rect x="356.3" y="200" width="64.7" height="34" rx="7" fill="#e1f5fe" stroke="#01579b" stroke-width="1.5"/><text x="388.7" y="223" text-anchor="middle" font-size="16" fill="#01579b">Eval</text><line x1="388.7" y1="234" x2="370.7" y2="262" stroke="#9e9e9e" stroke-width="1"/><circle cx="370.7" cy="268" r="6" fill="#e8f5e9" stroke="#2e7d32" stroke-width="1.2"/><line x1="388.7" y1="234" x2="388.7" y2="262" stroke="#9e9e9e" stroke-width="1"/><circle cx="388.7" cy="268" r="6" fill="#e8f5e9" stroke="#2e7d32" stroke-width="1.2"/><line x1="388.7" y1="234" x2="406.7" y2="262" stroke="#9e9e9e" stroke-width="1"/><circle cx="406.7" cy="268" r="6" fill="#e8f5e9" stroke="#2e7d32" stroke-width="1.2"/><line x1="318.0" y1="154" x2="459.3" y2="200" stroke="#7b1fa2" stroke-width="1.5"/><rect x="427.0" y="200" width="64.7" height="34" rx="7" fill="#e1f5fe" stroke="#01579b" stroke-width="1.5"/><text x="459.3" y="223" text-anchor="middle" font-size="16" fill="#01579b">Infra</text><line x1="459.3" y1="234" x2="441.3" y2="262" stroke="#9e9e9e" stroke-width="1"/><circle cx="441.3" cy="268" r="6" fill="#e8f5e9" stroke="#2e7d32" stroke-width="1.2"/><line x1="459.3" y1="234" x2="459.3" y2="262" stroke="#9e9e9e" stroke-width="1"/><circle cx="459.3" cy="268" r="6" fill="#e8f5e9" stroke="#2e7d32" stroke-width="1.2"/><line x1="459.3" y1="234" x2="477.3" y2="262" stroke="#9e9e9e" stroke-width="1"/><circle cx="477.3" cy="268" r="6" fill="#e8f5e9" stroke="#2e7d32" stroke-width="1.2"/><line x1="318.0" y1="154" x2="530.0" y2="200" stroke="#7b1fa2" stroke-width="1.5"/><rect x="497.7" y="200" width="64.7" height="34" rx="7" fill="#e1f5fe" stroke="#01579b" stroke-width="1.5"/><text x="530.0" y="223" text-anchor="middle" font-size="16" fill="#01579b">Duhem</text><line x1="530.0" y1="234" x2="512.0" y2="262" stroke="#9e9e9e" stroke-width="1"/><circle cx="512.0" cy="268" r="6" fill="#e8f5e9" stroke="#2e7d32" stroke-width="1.2"/><line x1="530.0" y1="234" x2="530.0" y2="262" stroke="#9e9e9e" stroke-width="1"/><circle cx="530.0" cy="268" r="6" fill="#e8f5e9" stroke="#2e7d32" stroke-width="1.2"/><line x1="530.0" y1="234" x2="548.0" y2="262" stroke="#9e9e9e" stroke-width="1"/><circle cx="548.0" cy="268" r="6" fill="#e8f5e9" stroke="#2e7d32" stroke-width="1.2"/><line x1="318.0" y1="154" x2="600.7" y2="200" stroke="#7b1fa2" stroke-width="1.5"/><rect x="568.3" y="200" width="64.7" height="34" rx="7" fill="#e1f5fe" stroke="#01579b" stroke-width="1.5"/><text x="600.7" y="223" text-anchor="middle" font-size="16" fill="#01579b">Kirzner</text><line x1="600.7" y1="234" x2="582.7" y2="262" stroke="#9e9e9e" stroke-width="1"/><circle cx="582.7" cy="268" r="6" fill="#e8f5e9" stroke="#2e7d32" stroke-width="1.2"/><line x1="600.7" y1="234" x2="600.7" y2="262" stroke="#9e9e9e" stroke-width="1"/><circle cx="600.7" cy="268" r="6" fill="#e8f5e9" stroke="#2e7d32" stroke-width="1.2"/><line x1="600.7" y1="234" x2="618.7" y2="262" stroke="#9e9e9e" stroke-width="1"/><circle cx="618.7" cy="268" r="6" fill="#e8f5e9" stroke="#2e7d32" stroke-width="1.2"/><text x="318.0" y="306" text-anchor="middle" font-size="16" fill="#2e7d32">9 个经理（S1），下面挂着约 300 个 Worker 对话</text></svg>
-<div class="note">我直接找经理的次数几乎归零，剩下的消息大多发给 Chief PM。</div></div>
-<div class="foot">S1 / S3 / S5：Stafford Beer 可生存系统模型的层级 · 北京时间</div></div></body></html>
+<div class="panel"><h2 style="color:var(--purple)">之后：我只管大事，日常由 Chief PM 拍板</h2><svg width="636" height="330" viewBox="0 0 636 330"><rect x="98.0" y="6" width="440" height="56" rx="10" fill="#ffebee" stroke="#c62828" stroke-width="2"/><text x="318.0" y="30" text-anchor="middle" font-size="19" font-weight="700" fill="#c62828">我 · 大事</text><text x="318.0" y="53" text-anchor="middle" font-size="16" fill="#525252">花钱、对外发声、凭据、产品方向</text><line x1="318.0" y1="62" x2="318.0" y2="98" stroke="#c62828" stroke-width="2.5"/><rect x="98.0" y="98" width="440" height="56" rx="10" fill="#f3e5f5" stroke="#7b1fa2" stroke-width="2"/><text x="318.0" y="122" text-anchor="middle" font-size="19" font-weight="700" fill="#7b1fa2">Chief PM · 管日常</text><text x="318.0" y="145" text-anchor="middle" font-size="16" fill="#525252">合并、发版、技术选型、巡检</text><line x1="318.0" y1="154" x2="35.3" y2="200" stroke="#7b1fa2" stroke-width="1.5"/><rect x="3.0" y="200" width="64.7" height="34" rx="7" fill="#e1f5fe" stroke="#01579b" stroke-width="1.5"/><text x="35.3" y="223" text-anchor="middle" font-size="16" fill="#01579b">博客</text><line x1="35.3" y1="234" x2="17.3" y2="262" stroke="#9e9e9e" stroke-width="1"/><circle cx="17.3" cy="268" r="6" fill="#e8f5e9" stroke="#2e7d32" stroke-width="1.2"/><line x1="35.3" y1="234" x2="35.3" y2="262" stroke="#9e9e9e" stroke-width="1"/><circle cx="35.3" cy="268" r="6" fill="#e8f5e9" stroke="#2e7d32" stroke-width="1.2"/><line x1="35.3" y1="234" x2="53.3" y2="262" stroke="#9e9e9e" stroke-width="1"/><circle cx="53.3" cy="268" r="6" fill="#e8f5e9" stroke="#2e7d32" stroke-width="1.2"/><line x1="318.0" y1="154" x2="106.0" y2="200" stroke="#7b1fa2" stroke-width="1.5"/><rect x="73.7" y="200" width="64.7" height="34" rx="7" fill="#e1f5fe" stroke="#01579b" stroke-width="1.5"/><text x="106.0" y="223" text-anchor="middle" font-size="16" fill="#01579b">AWB</text><line x1="106.0" y1="234" x2="88.0" y2="262" stroke="#9e9e9e" stroke-width="1"/><circle cx="88.0" cy="268" r="6" fill="#e8f5e9" stroke="#2e7d32" stroke-width="1.2"/><line x1="106.0" y1="234" x2="106.0" y2="262" stroke="#9e9e9e" stroke-width="1"/><circle cx="106.0" cy="268" r="6" fill="#e8f5e9" stroke="#2e7d32" stroke-width="1.2"/><line x1="106.0" y1="234" x2="124.0" y2="262" stroke="#9e9e9e" stroke-width="1"/><circle cx="124.0" cy="268" r="6" fill="#e8f5e9" stroke="#2e7d32" stroke-width="1.2"/><line x1="318.0" y1="154" x2="176.7" y2="200" stroke="#7b1fa2" stroke-width="1.5"/><rect x="144.3" y="200" width="64.7" height="34" rx="7" fill="#e1f5fe" stroke="#01579b" stroke-width="1.5"/><text x="176.7" y="223" text-anchor="middle" font-size="16" fill="#01579b">Semon</text><line x1="176.7" y1="234" x2="158.7" y2="262" stroke="#9e9e9e" stroke-width="1"/><circle cx="158.7" cy="268" r="6" fill="#e8f5e9" stroke="#2e7d32" stroke-width="1.2"/><line x1="176.7" y1="234" x2="176.7" y2="262" stroke="#9e9e9e" stroke-width="1"/><circle cx="176.7" cy="268" r="6" fill="#e8f5e9" stroke="#2e7d32" stroke-width="1.2"/><line x1="176.7" y1="234" x2="194.7" y2="262" stroke="#9e9e9e" stroke-width="1"/><circle cx="194.7" cy="268" r="6" fill="#e8f5e9" stroke="#2e7d32" stroke-width="1.2"/><line x1="318.0" y1="154" x2="247.3" y2="200" stroke="#7b1fa2" stroke-width="1.5"/><rect x="215.0" y="200" width="64.7" height="34" rx="7" fill="#e1f5fe" stroke="#01579b" stroke-width="1.5"/><text x="247.3" y="223" text-anchor="middle" font-size="16" fill="#01579b">Ostrom</text><line x1="247.3" y1="234" x2="229.3" y2="262" stroke="#9e9e9e" stroke-width="1"/><circle cx="229.3" cy="268" r="6" fill="#e8f5e9" stroke="#2e7d32" stroke-width="1.2"/><line x1="247.3" y1="234" x2="247.3" y2="262" stroke="#9e9e9e" stroke-width="1"/><circle cx="247.3" cy="268" r="6" fill="#e8f5e9" stroke="#2e7d32" stroke-width="1.2"/><line x1="247.3" y1="234" x2="265.3" y2="262" stroke="#9e9e9e" stroke-width="1"/><circle cx="265.3" cy="268" r="6" fill="#e8f5e9" stroke="#2e7d32" stroke-width="1.2"/><line x1="318.0" y1="154" x2="318.0" y2="200" stroke="#7b1fa2" stroke-width="1.5"/><rect x="285.7" y="200" width="64.7" height="34" rx="7" fill="#e1f5fe" stroke="#01579b" stroke-width="1.5"/><text x="318.0" y="223" text-anchor="middle" font-size="16" fill="#01579b">Tolmap</text><line x1="318.0" y1="234" x2="300.0" y2="262" stroke="#9e9e9e" stroke-width="1"/><circle cx="300.0" cy="268" r="6" fill="#e8f5e9" stroke="#2e7d32" stroke-width="1.2"/><line x1="318.0" y1="234" x2="318.0" y2="262" stroke="#9e9e9e" stroke-width="1"/><circle cx="318.0" cy="268" r="6" fill="#e8f5e9" stroke="#2e7d32" stroke-width="1.2"/><line x1="318.0" y1="234" x2="336.0" y2="262" stroke="#9e9e9e" stroke-width="1"/><circle cx="336.0" cy="268" r="6" fill="#e8f5e9" stroke="#2e7d32" stroke-width="1.2"/><line x1="318.0" y1="154" x2="388.7" y2="200" stroke="#7b1fa2" stroke-width="1.5"/><rect x="356.3" y="200" width="64.7" height="34" rx="7" fill="#e1f5fe" stroke="#01579b" stroke-width="1.5"/><text x="388.7" y="223" text-anchor="middle" font-size="16" fill="#01579b">Eval</text><line x1="388.7" y1="234" x2="370.7" y2="262" stroke="#9e9e9e" stroke-width="1"/><circle cx="370.7" cy="268" r="6" fill="#e8f5e9" stroke="#2e7d32" stroke-width="1.2"/><line x1="388.7" y1="234" x2="388.7" y2="262" stroke="#9e9e9e" stroke-width="1"/><circle cx="388.7" cy="268" r="6" fill="#e8f5e9" stroke="#2e7d32" stroke-width="1.2"/><line x1="388.7" y1="234" x2="406.7" y2="262" stroke="#9e9e9e" stroke-width="1"/><circle cx="406.7" cy="268" r="6" fill="#e8f5e9" stroke="#2e7d32" stroke-width="1.2"/><line x1="318.0" y1="154" x2="459.3" y2="200" stroke="#7b1fa2" stroke-width="1.5"/><rect x="427.0" y="200" width="64.7" height="34" rx="7" fill="#e1f5fe" stroke="#01579b" stroke-width="1.5"/><text x="459.3" y="223" text-anchor="middle" font-size="16" fill="#01579b">Infra</text><line x1="459.3" y1="234" x2="441.3" y2="262" stroke="#9e9e9e" stroke-width="1"/><circle cx="441.3" cy="268" r="6" fill="#e8f5e9" stroke="#2e7d32" stroke-width="1.2"/><line x1="459.3" y1="234" x2="459.3" y2="262" stroke="#9e9e9e" stroke-width="1"/><circle cx="459.3" cy="268" r="6" fill="#e8f5e9" stroke="#2e7d32" stroke-width="1.2"/><line x1="459.3" y1="234" x2="477.3" y2="262" stroke="#9e9e9e" stroke-width="1"/><circle cx="477.3" cy="268" r="6" fill="#e8f5e9" stroke="#2e7d32" stroke-width="1.2"/><line x1="318.0" y1="154" x2="530.0" y2="200" stroke="#7b1fa2" stroke-width="1.5"/><rect x="497.7" y="200" width="64.7" height="34" rx="7" fill="#e1f5fe" stroke="#01579b" stroke-width="1.5"/><text x="530.0" y="223" text-anchor="middle" font-size="16" fill="#01579b">Duhem</text><line x1="530.0" y1="234" x2="512.0" y2="262" stroke="#9e9e9e" stroke-width="1"/><circle cx="512.0" cy="268" r="6" fill="#e8f5e9" stroke="#2e7d32" stroke-width="1.2"/><line x1="530.0" y1="234" x2="530.0" y2="262" stroke="#9e9e9e" stroke-width="1"/><circle cx="530.0" cy="268" r="6" fill="#e8f5e9" stroke="#2e7d32" stroke-width="1.2"/><line x1="530.0" y1="234" x2="548.0" y2="262" stroke="#9e9e9e" stroke-width="1"/><circle cx="548.0" cy="268" r="6" fill="#e8f5e9" stroke="#2e7d32" stroke-width="1.2"/><line x1="318.0" y1="154" x2="600.7" y2="200" stroke="#7b1fa2" stroke-width="1.5"/><rect x="568.3" y="200" width="64.7" height="34" rx="7" fill="#e1f5fe" stroke="#01579b" stroke-width="1.5"/><text x="600.7" y="223" text-anchor="middle" font-size="16" fill="#01579b">Kirzner</text><line x1="600.7" y1="234" x2="582.7" y2="262" stroke="#9e9e9e" stroke-width="1"/><circle cx="582.7" cy="268" r="6" fill="#e8f5e9" stroke="#2e7d32" stroke-width="1.2"/><line x1="600.7" y1="234" x2="600.7" y2="262" stroke="#9e9e9e" stroke-width="1"/><circle cx="600.7" cy="268" r="6" fill="#e8f5e9" stroke="#2e7d32" stroke-width="1.2"/><line x1="600.7" y1="234" x2="618.7" y2="262" stroke="#9e9e9e" stroke-width="1"/><circle cx="618.7" cy="268" r="6" fill="#e8f5e9" stroke="#2e7d32" stroke-width="1.2"/><text x="318.0" y="306" text-anchor="middle" font-size="16" fill="#2e7d32">9 个经理各管一个项目，下面挂着约 300 个 Worker 对话</text></svg>
+<div class="note">我直接找经理的次数几乎归零，剩下的消息大多发给 Chief PM。</div></div></div></body></html>

diff --git a/drafts/2026-11-24-managing-managers-a-chief-pm-agent-and-the-coordination-tax/figures/gen_figures.py b/drafts/2026-11-24-managing-managers-a-chief-pm-agent-and-the-coordination-tax/figures/gen_figures.py
@@ -54,11 +54,11 @@ def fig1():
     h2 = 330; col = w / 9
     t = [f'<svg width="{w}" height="{h2}" viewBox="0 0 {w} {h2}">']
     t.append(f'<rect x="{w/2-220}" y="6" width="440" height="56" rx="10" fill="#ffebee" stroke="#c62828" stroke-width="2"/>')
-    t.append(f'<text x="{w/2}" y="30" text-anchor="middle" font-size="19" font-weight="700" fill="#c62828">我 · S5</text>')
+    t.append(f'<text x="{w/2}" y="30" text-anchor="middle" font-size="19" font-weight="700" fill="#c62828">我 · 大事</text>')
     t.append(f'<text x="{w/2}" y="53" text-anchor="middle" font-size="16" fill="#525252">花钱、对外发声、凭据、产品方向</text>')
     t.append(f'<line x1="{w/2}" y1="62" x2="{w/2}" y2="98" stroke="#c62828" stroke-width="2.5"/>')
     t.append(f'<rect x="{w/2-220}" y="98" width="440" height="56" rx="10" fill="#f3e5f5" stroke="#7b1fa2" stroke-width="2"/>')
-    t.append(f'<text x="{w/2}" y="122" text-anchor="middle" font-size="19" font-weight="700" fill="#7b1fa2">Chief PM · S3</text>')
+    t.append(f'<text x="{w/2}" y="122" text-anchor="middle" font-size="19" font-weight="700" fill="#7b1fa2">Chief PM · 管日常</text>')
     t.append(f'<text x="{w/2}" y="145" text-anchor="middle" font-size="16" fill="#525252">合并、发版、技术选型、巡检</text>')
     for i, p in enumerate(PROJ):
         x = col * i + col / 2
@@ -69,7 +69,7 @@ def fig1():
             wx = x - 18 + k * 18
             t.append(f'<line x1="{x:.1f}" y1="234" x2="{wx:.1f}" y2="262" stroke="#9e9e9e" stroke-width="1"/>')
             t.append(f'<circle cx="{wx:.1f}" cy="268" r="6" fill="#e8f5e9" stroke="#2e7d32" stroke-width="1.2"/>')
-    t.append(f'<text x="{w/2}" y="306" text-anchor="middle" font-size="16" fill="#2e7d32">9 个经理（S1），下面挂着约 300 个 Worker 对话</text>')
+    t.append(f'<text x="{w/2}" y="306" text-anchor="middle" font-size="16" fill="#2e7d32">9 个经理各管一个项目，下面挂着约 300 个 Worker 对话</text>')
     t.append('</svg>')
     tree = "".join(t)
 
@@ -77,9 +77,8 @@ def fig1():
 <div class="sub">同样 9 个经理，同样是 Opus 5.5。变的是谁站在中心。</div>
 <div class="panel"><h2 style="color:var(--red)">之前：9 条辐条都通向我</h2>{star}
 <div class="note">每一个要拍板的事，都等我回消息。</div></div>
-<div class="panel"><h2 style="color:var(--purple)">之后：我只管 S5，日常由 Chief PM 拍板</h2>{tree}
-<div class="note">我直接找经理的次数几乎归零，剩下的消息大多发给 Chief PM。</div></div>
-<div class="foot">S1 / S3 / S5：Stafford Beer 可生存系统模型的层级 · 北京时间</div>"""
+<div class="panel"><h2 style="color:var(--purple)">之后：我只管大事，日常由 Chief PM 拍板</h2>{tree}
+<div class="note">我直接找经理的次数几乎归零，剩下的消息大多发给 Chief PM。</div></div>"""
     return HEAD.replace("{title}", "图 2").replace("{extra}", "") + body + TAIL
 
 
@@ -153,13 +152,13 @@ EN = [
     ("之前：9 条辐条都通向我", "Before: all nine spokes run to me"),
     (">博客<", ">Blog<"), (">我<", ">Me<"),
     ("每一个要拍板的事，都等我回消息。", "Every decision waited for my reply."),
-    ("之后：我只管 S5，日常由 Chief PM 拍板", "After: I keep S5, the Chief PM makes routine calls"),
-    ("我 · S5", "Me · S5"),
+    ("之后：我只管大事，日常由 Chief PM 拍板", "After: I keep the big calls, the Chief PM makes routine calls"),
+    ("我 · 大事", "Me · the big calls"),
+    ("Chief PM · 管日常", "Chief PM · day-to-day"),
     ("花钱、对外发声、凭据、产品方向", "Spending, public posts, credentials, direction"),
     ("合并、发版、技术选型、巡检", "Merges, releases, tech choices, check-ins"),
-    ("9 个经理（S1），下面挂着约 300 个 Worker 对话", "9 managers (S1), with about 300 Worker threads below"),
+    ("9 个经理各管一个项目，下面挂着约 300 个 Worker 对话", "9 managers, one per project, with about 300 Worker threads below"),
     ("我直接找经理的次数几乎归零，剩下的消息大多发给 Chief PM。", "My direct messages to managers dropped to almost none; most of the rest went to the Chief PM."),
-    ("S1 / S3 / S5：Stafford Beer 可生存系统模型的层级 · 北京时间", "S1 / S3 / S5: levels of Beer's Viable System Model · Beijing time"),
     ("我发消息的频率", "How often I sent messages"),
     ("只数我亲手打的字，按每小时折算。条越长，我越像队列。", "Only messages I typed, as a rate per hour. The longer the bar, the more I'm the queue."),
     ("发给 9 个经理", "To the 9 managers"), ("发给 Chief PM", "To the Chief PM"),
